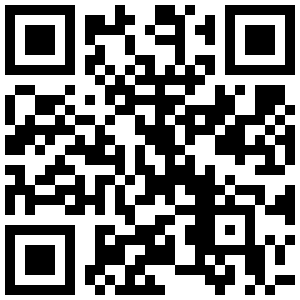
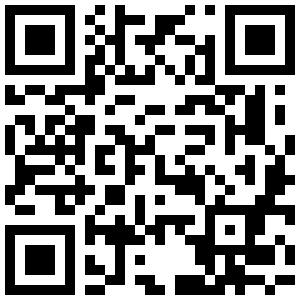
Include file extension in link and generate new QR code.

diff --git a/pelicanconf.py b/pelicanconf.py
@@ -21,7 +21,7 @@ DISPLAY_CATEGORIES_ON_MENU = False
 DEFAULT_CATEGORY = 'misc'
 IGNORE_FILES = ['content/pages/projects/template.md']
 STATIC_PATHS = ['images', 'extra/CNAME', 'extra/favicon.ico', 'extra/resume.pdf']
-EXTRA_PATH_METADATA = {'extra/CNAME': {'path': 'CNAME'}, 'extra/favicon.ico': {'path': 'favicon.ico'}, 'extra/resume.pdf': {'path': 'resume'},}
+EXTRA_PATH_METADATA = {'extra/CNAME': {'path': 'CNAME'}, 'extra/favicon.ico': {'path': 'favicon.ico'}, 'extra/resume.pdf': {'path': 'resume.pdf'},}
 
 MARKDOWN = {
     'extension_configs': {
